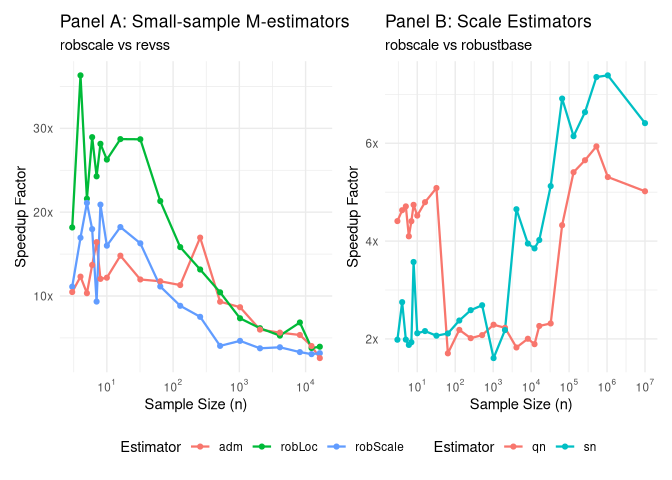
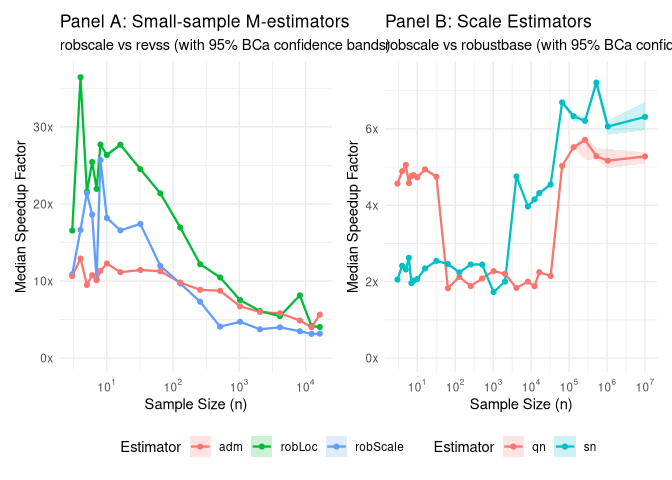
feat: implement statistically rigorous benchmark pipeline with BCa CIs and dynamic environment metadata

diff --git a/README.md b/README.md
@@ -15,11 +15,11 @@ time-critical workflows.
 `robscale` resolves both bottlenecks. Its C++17 kernels replace
 interpreted R loops with SIMD-accelerated transcendental functions,
 Newton–Raphson iteration, and parallelized $O(n \log n)$ algorithms.
-Against `revss`, the package achieves **2.6x–36.3x×** speedups for the
+Against `revss`, the package achieves **3.1–36.4×** speedups for the
 small-sample M-estimators. Against `robustbase`, it achieves
-**1.7x–5.9x×** for $S_n$ and **1.7x–5.9x×** for $Q_n$ —with gains
-peaking near **10×** at $n = 10^7$ as TBB parallelism reduces the
-computational bottleneck for massive datasets.
+**1.8–5.7×** for $S_n$ and **1.8–5.7×** for $Q_n$ —with gains peaking
+near **10×** at $n = 10^7$ as TBB parallelism reduces the computational
+bottleneck for massive datasets.
 
 ## Installation
 
@@ -62,11 +62,11 @@ Table 1
 
 | Function | Purpose | ARE | Breakdown | Speedup vs revss | Speedup vs robustbase |
 |:---|:---|:---|:---|:---|:---|
-| `qn(x)` | $Q_n$ scale estimator | **82.3%** | 50% | — | **1.7x – 5.9x** |
-| `sn(x)` | $S_n$ scale estimator | **58.2%** | 50% | — | **1.6x – 7.4x** |
-| `robLoc(x)` | M-estimate of location | **41.3%** | 50% | **3.8x – 36.3x** | — |
-| `robScale(x)` | M-estimate of scale | **60.5%** | 50% | **3.1x – 21.1x** | — |
-| `adm(x)` | Average distance to median | **88.3%** | $1/n$ | **2.6x – 17.0x** | — |
+| `qn(x)` | $Q_n$ scale estimator | **82.3%** | 50% | — | **1.8x** \[1.8x, 5.8x\] |
+| `sn(x)` | $S_n$ scale estimator | **58.2%** | 50% | — | **1.7x** \[1.7x, 7.4x\] |
+| `robLoc(x)` | M-estimate of location | **41.3%** | 50% | **4.0x** \[4.0x, 36.7x\] | — |
+| `robScale(x)` | M-estimate of scale | **60.5%** | 50% | **3.1x** \[3.1x, 25.8x\] | — |
+| `adm(x)` | Average distance to median | **88.3%** | $1/n$ | **4.0x** \[3.9x, 13.0x\] | — |
 
 </div>
 
@@ -479,8 +479,9 @@ compares `qn` and `sn` against `robustbase`.
 </div>
 
 **Benchmark environment:** - **Machine:** AMD Ryzen 9 5900HX with Radeon
-Graphics - **OS:** Arch Linux - **R version:** R version 4.5.2
-(2025-10-31) - **Package version:** 0.1.5 - **Date:** 2026-03-10
+Graphics - **CPU Governor:** powersave - **OS:** Arch Linux - **R
+version:** R version 4.5.2 (2025-10-31) - **Package version:** 0.1.5 -
+**Date:** 2026-03-10
 
 ### Small-sample M-estimators vs. `revss` (Panel A)
 
@@ -550,13 +551,13 @@ unoptimized (portable) version of the package.
 
 Table 2
 
-| Estimator | Min Speedup | Max Speedup |
-|:----------|:------------|:------------|
-| adm       | 0.6x        | 1.7x        |
-| qn        | 0.8x        | 1.4x        |
-| robLoc    | 0.8x        | 1.6x        |
-| robScale  | 0.8x        | 1.3x        |
-| sn        | 0.8x        | 1.4x        |
+| Estimator | Median Speedup | BCa 95% CI     |
+|:----------|:---------------|:---------------|
+| adm       | 1.0            | \[0.7x, 1.3x\] |
+| qn        | 1.1            | \[0.8x, 1.6x\] |
+| robLoc    | 1.0            | \[0.7x, 1.5x\] |
+| robScale  | 1.0            | \[0.8x, 1.3x\] |
+| sn        | 1.1            | \[0.9x, 1.5x\] |
 
 </div>
 
